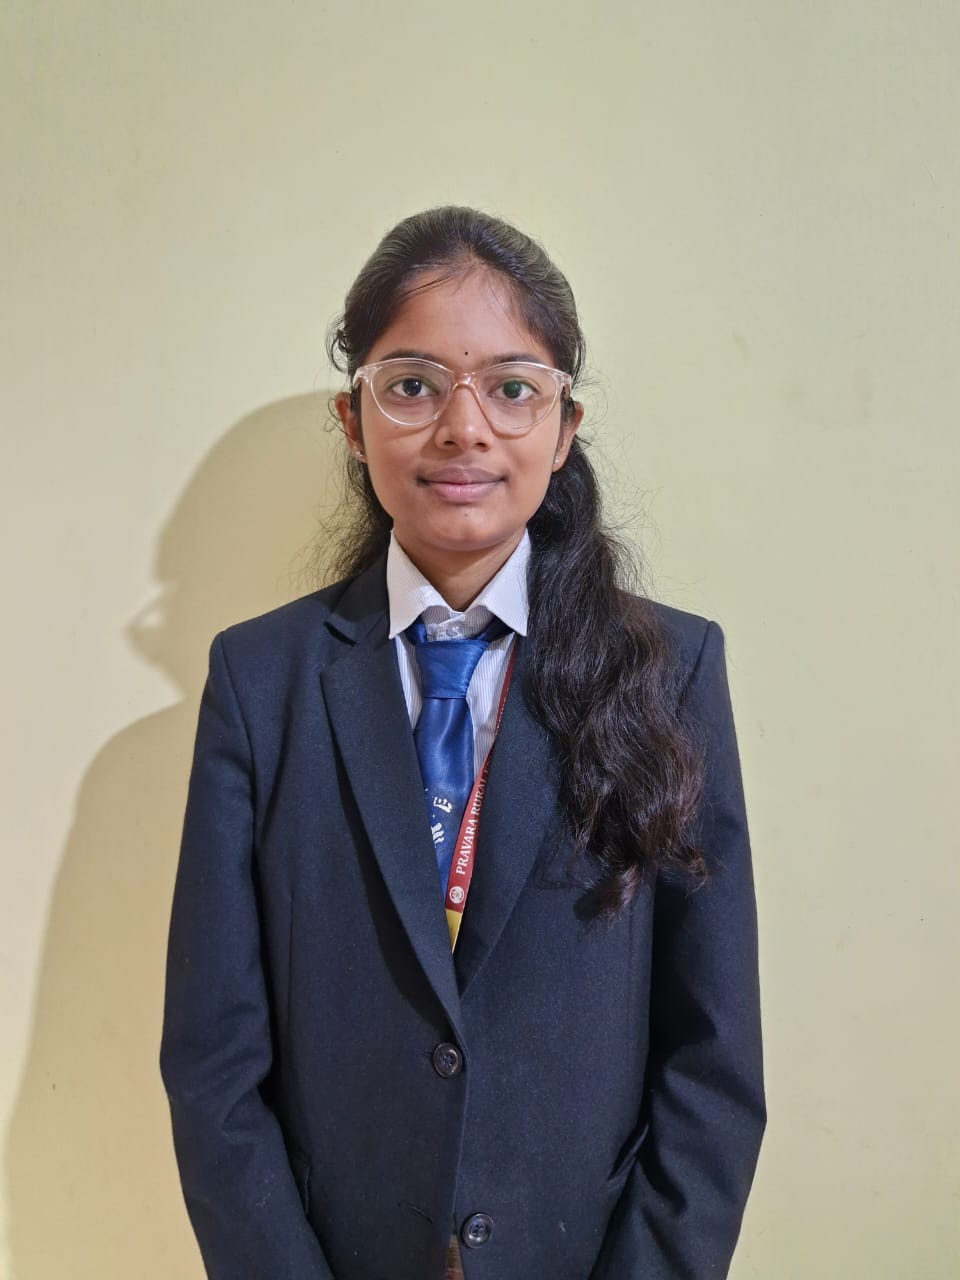
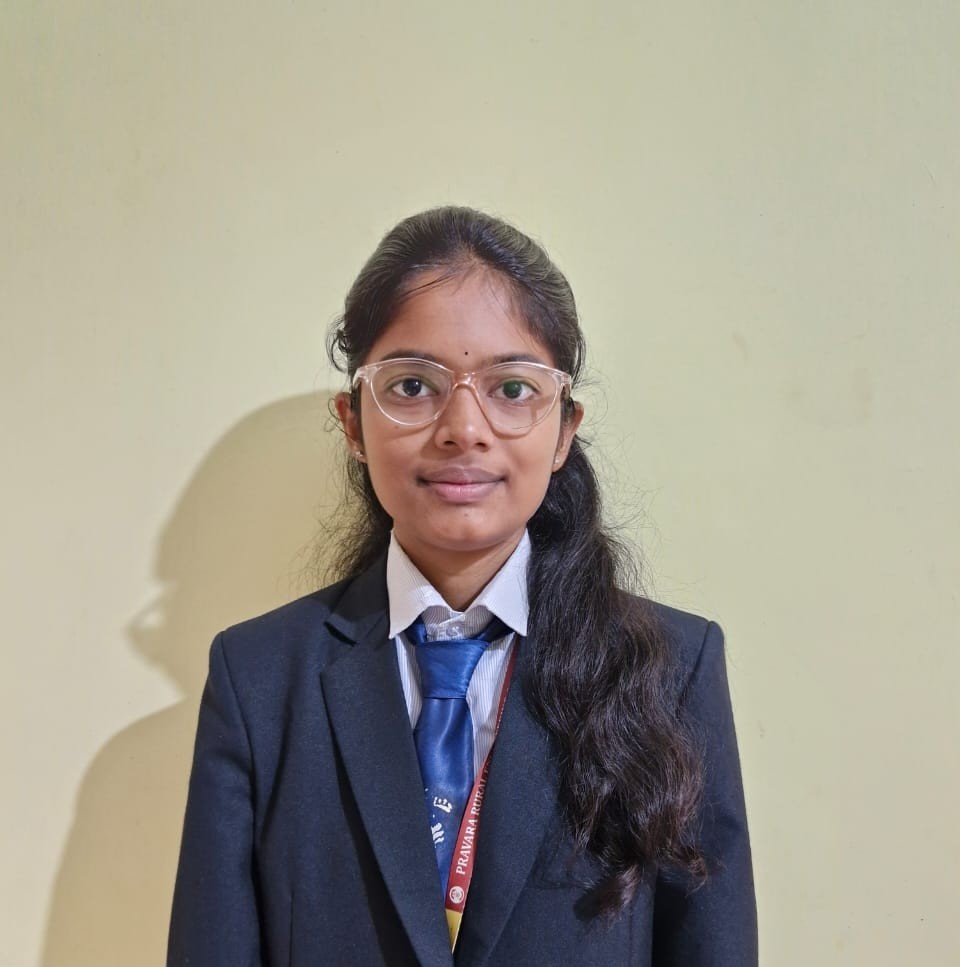
add team

diff --git a/pages/about.html b/pages/about.html
@@ -111,7 +111,7 @@
         </div>
 
         <div class="sub-team">
-            <img src="./../images/karan-img.jpg" class="team-imgs" /><br /><br />
+            <img src="./../images/karan-img.jpg" class="team-imgs" /><br /><br/>
             <div class="name-imgs">Karan Samrit<br />
                 <span class="name">Designer</span><br />
                 <img src="./../images/insta.png" class="social-icon" />
@@ -121,7 +121,7 @@
         </div>
 
         <div class="sub-team">
-            <img class="team-imgs" /><br />
+            <img src="./../images/mansi.jpg" class="team-imgs" /><br /><br />
             <div class="name-imgs">Mansi Satre<br />
                 <span class="name">Designer</span><br />
                 <img src="./../images/insta.png" class="social-icon" />
@@ -141,7 +141,7 @@
         </div>
 
         <div class="sub-team">
-            <img class="team-imgs" />
+            <img class="team-imgs" /><br/><br/>
             <div class="name-imgs">Rinal Shinde<br />
                 <span class="name">Designer</span><br />
                 <img src="./../images/insta.png" class="social-icon" />
@@ -151,23 +151,24 @@
         </div>
 
         <div class="sub-team">
-            <img class="team-imgs" />
-            <div class="name-imgs">Pooja Kangane<br />
-                <span class="name">Designer</span><br />
-                <img src="./../images/insta.png" class="social-icon" />
-                <img src="./../images/github-logo.png" class="social-icon" />
-                <img src="./../images/linkedin.png" class="social-icon" />
-            </div>
-        </div>
-
-        <div class="sub-team">
-            <img src="" class="team-imgs" />
+            <img src="./../images/dnyaneshwari.jpeg" class="team-imgs" /><br/><br/>
             <div class="name-imgs">Dnyaneshwari Ghopal<br />
                 <span class="name">Designer</span><br />
                 <img src="./../images/insta.png" class="social-icon" />
                 <img src="./../images/github-logo.png" class="social-icon" />
                 <img src="./../images/linkedin.png" class="social-icon" />
             </div>
+
+            <div class="sub-team">
+                <img class="team-imgs" />
+                <div class="name-imgs">Pooja Kangane<br /><br/>
+                    <span class="name">Designer</span><br/>
+                    <img src="./../images/insta.png" class="social-icon" />
+                    <img src="./../images/github-logo.png" class="social-icon" />
+                    <img src="./../images/linkedin.png" class="social-icon" />
+                </div>
+            </div>
+
         </div>
 
     </div>

diff --git a/css/about.css b/css/about.css
@@ -113,12 +113,57 @@ body {
         border: 0;
     }
 
+    .all-team {
+    font-size: 28px;
+    font-weight: 550;
+    text-align: center;
+    padding-bottom: 30px;
+}
+
     .team {
         display: flex;
         flex-wrap: wrap;
         justify-content: space-evenly;
         flex-direction: column;
     }
+
+    .sub-team {
+        width: 200px;
+        height: 150px;
+        margin: 20px;
+        border: 1px solid rgb(242, 227, 227);
+        background-color: white;
+        border-radius: 15px;
+        margin-top: 40px;
+        position: relative;
+
+    }
+
+    .sub-team:hover {
+        border-color: skyblue;
+    }
+
+    .team-imgs {
+    height: 90px;
+    border-radius: 50%;
+    position: absolute;
+    align-items: center;
+    left: 50px;
+    top: -50px;
+    padding: 0px;
+    width: 100px;
+    
+}
+
+
+.name-imgs {
+    font-size: 18px;
+    font-weight: 550;
+    padding: 20px;
+    text-align: center;
+    justify-content: center;
+    padding-top: 10px;
+}
 
 }
 
@@ -133,18 +178,21 @@ body {
     display: flex;
     flex-wrap: wrap;
     justify-content: space-evenly;
+    
 }
 
 
 .sub-team {
+    position: relative;
     width: 200px;
     height: 150px;
-    margin: 20px;
+    margin: 0 auto;
     border: 1px solid rgb(242, 227, 227);
     background-color: white;
     border-radius: 15px;
     margin-top: 40px;
-    position: relative;
+    margin-bottom: 40px;
+    
 }
 
 .sub-team:hover {
@@ -153,13 +201,15 @@ body {
 
 
 .team-imgs {
-    height: 80px;
+    height: 90px;
     border-radius: 50%;
     position: absolute;
     align-items: center;
     left: 50px;
     top: -50px;
-    padding: 10px;
+    padding: 0px;
+    width: 100px;
+    display: block;
 }
 
 

diff --git a/css/navbar.css b/css/navbar.css
@@ -10,8 +10,9 @@ body {
     display: flex;
     justify-content: space-around;
     align-items: center;
-    position: fixed;
-    top: 0;
+    position: sticky;
+    top: 0%;
+    left: 0%;
     width: 100%;
 }
 
